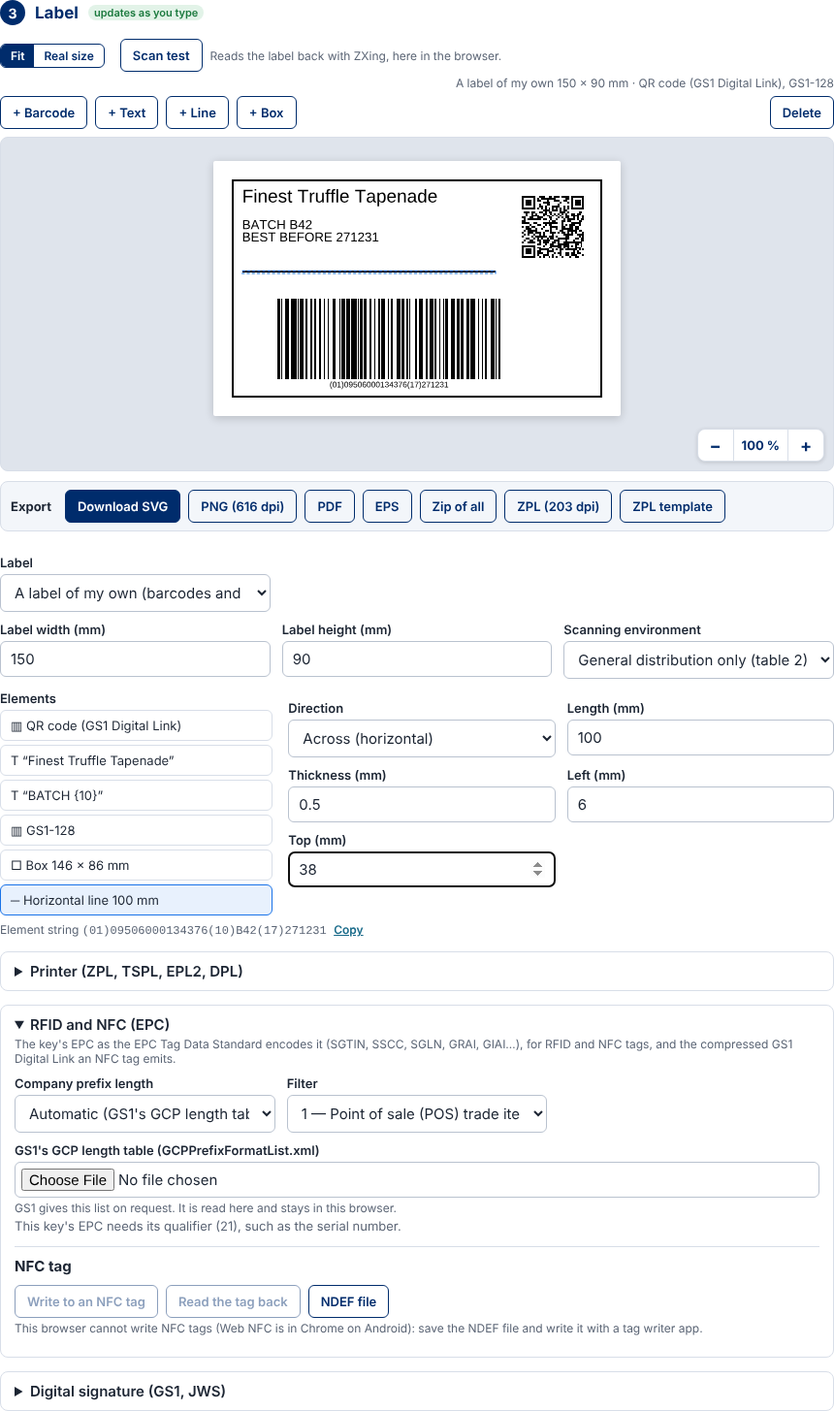
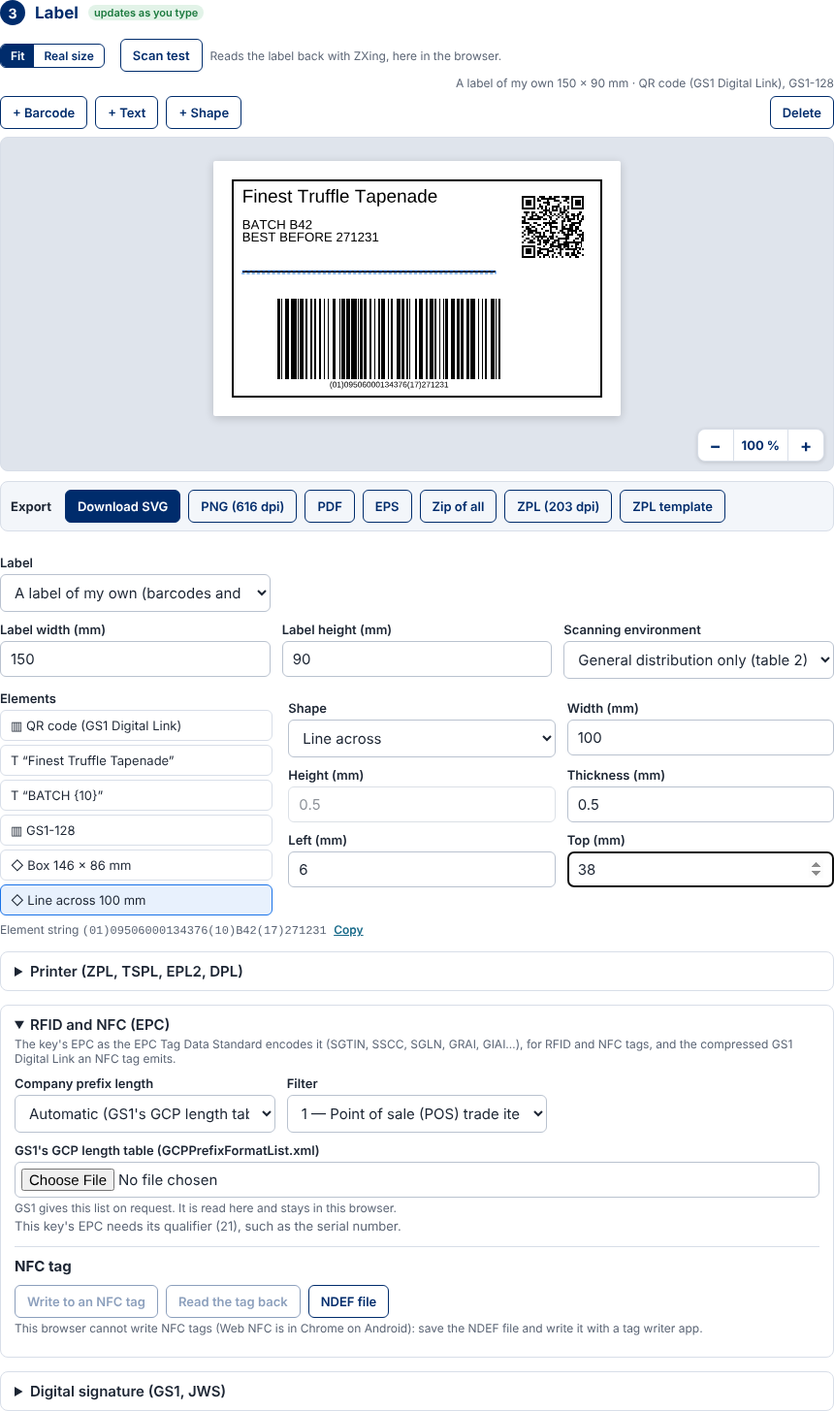
web, docs: one + Shape for lines and boxes, the owner's choice of mock-up B (4.2)
The owner chose mock-up B over A: one + Shape button beside + Barcode and + Text, the shape chosen in its properties
(line across, line down, box, filled box) with its width, height and thickness. A line's length is its width (across)
or height (down), the other side its thickness, shown but not typed; a filled box's thickness is not asked. Changing
the shape keeps the corner, the thickness and the length the two shapes share. The core's lines and boxes, and their
ZPL and EPL2, are unchanged.

Claude-Session: https://claude.ai/code/session_01AV1osqnMA5E6wBwdnRYPX7

diff --git a/apps/web/src/Designer.tsx b/apps/web/src/Designer.tsx
@@ -1,5 +1,5 @@
 import {
-  SIZES, SYMBOLOGIES, type DesignBox, type DesignElement, type DesignLine, type DesignPage, type DesignSymbol, type DesignText, type PlacedElement, type SymbologyId,
+  boxOf, SIZES, SYMBOLOGIES, type DesignBox, type DesignElement, type DesignLine, type DesignPage, type DesignSymbol, type DesignText, type PlacedElement, type SymbologyId,
 } from "@gs1-label-studio/core";
 import { useRef } from "react";
 import { formatNumber, t, tm } from "./i18n.ts";
@@ -8,7 +8,8 @@ import { ENVIRONMENT_NAMES } from "./texts.ts";
 // A label of one's own (backlog 4.2, mock-up A of two, 3 November 2026): in step 3, "Label" offers it; the page on the
 // canvas with its barcodes and text blocks, each selected by a click and moved by dragging it; "+ Barcode" and
 // "+ Text" over the canvas; under it the page's size, the elements and the selected one's properties. Then (step b,
-// mock-up A of two) "+ Line" and "+ Box" beside them: a rule across or down, a box outlined or filled.
+// mock-up B of two, the owner's choice of 3 November 2026) "+ Shape" beside them: a line across or down, a box
+// outlined or filled, the shape chosen in its properties.
 
 /** The symbols a barcode on the page can be: as step 3 offers them, not GS1 QR Code (ADR 0003). */
 const OFFERED = Object.values(SYMBOLOGIES).filter((symbology) => symbology.id !== "gs1-qrcode");
@@ -40,7 +41,7 @@ export function elementName(element: DesignElement): string {
   if (element.kind === "text") return `“${element.text.split("\n")[0] || t("Text")}”`;
   if (element.kind === "line") {
     const mm = formatNumber(element.lengthMm);
-    return element.vertical ? t("Vertical line {mm} mm", { mm }) : t("Horizontal line {mm} mm", { mm });
+    return element.vertical ? t("Line down {mm} mm", { mm }) : t("Line across {mm} mm", { mm });
   }
   const size = { w: formatNumber(element.widthMm), h: formatNumber(element.heightMm) };
   return element.filled ? t("Filled box {w} × {h} mm", size) : t("Box {w} × {h} mm", size);
@@ -50,8 +51,28 @@ export function elementName(element: DesignElement): string {
 function elementIcon(element: DesignElement): string {
   if (element.kind === "symbol") return "▥";
   if (element.kind === "text") return "T";
-  if (element.kind === "line") return element.vertical ? "│" : "─";
-  return element.filled ? "■" : "□";
+  return "◇";
+}
+
+/** A shape: a line across or down, a box outlined or filled (the core's line and box). */
+type Shape = "across" | "down" | "box" | "filled";
+const BOX_SIDE_MM = 20; // a box made from a line takes the line's length one way and this the other
+
+function shapeOf(element: DesignLine | DesignBox): Shape {
+  if (element.kind === "line") return element.vertical ? "down" : "across";
+  return element.filled ? "filled" : "box";
+}
+
+/** The shape changed to another, its corner and thickness kept, and the length it shares with the new one. */
+function reshaped(element: DesignLine | DesignBox, shape: Shape): DesignLine | DesignBox {
+  const { id, xMm, yMm, thicknessMm } = element;
+  if (shape === "across" || shape === "down") {
+    const lengthMm = element.kind === "line" ? element.lengthMm : shape === "across" ? element.widthMm : element.heightMm;
+    return { id, kind: "line", vertical: shape === "down", lengthMm, thicknessMm, xMm, yMm };
+  }
+  const [widthMm, heightMm] = element.kind === "box" ? [element.widthMm, element.heightMm]
+    : element.vertical ? [BOX_SIDE_MM, element.lengthMm] : [element.lengthMm, BOX_SIDE_MM];
+  return { id, kind: "box", widthMm, heightMm, thicknessMm, filled: shape === "filled", xMm, yMm };
 }
 
 interface ToolsProps {
@@ -61,7 +82,7 @@ interface ToolsProps {
   onChange: (page: DesignPage, selected: string | null) => void;
 }
 
-/** + Barcode, + Text, + Line, + Box and Delete, over the canvas. */
+/** + Barcode, + Text, + Shape and Delete, over the canvas. */
 export function DesignerTools({ page, selected, symbology, onChange }: ToolsProps) {
   const add = (element: DesignElement) => onChange({ ...page, elements: [...page.elements, element] }, element.id);
   return (
@@ -73,10 +94,7 @@ export function DesignerTools({ page, selected, symbology, onChange }: ToolsProp
         {t("+ Text")}
       </button>
       <button type="button" className="btn" onClick={() => add({ id: nextId(page), kind: "line", vertical: false, lengthMm: 40, thicknessMm: 0.5, xMm: 4, yMm: 4 })}>
-        {t("+ Line")}
-      </button>
-      <button type="button" className="btn" onClick={() => add({ id: nextId(page), kind: "box", widthMm: 40, heightMm: 20, thicknessMm: 0.5, filled: false, xMm: 4, yMm: 4 })}>
-        {t("+ Box")}
+        {t("+ Shape")}
       </button>
       <span className="grow" />
       <button type="button" className="btn" disabled={!selected} onClick={() => onChange({ ...page, elements: page.elements.filter((e) => e.id !== selected) }, null)}>
@@ -164,14 +182,52 @@ interface PanelProps {
   onChange: (page: DesignPage, selected: string | null) => void;
 }
 
+const millimetres = (value: string, fallback: number) => (Number.isFinite(Number(value)) && value !== "" ? Number(value) : fallback);
+// A size or thickness is kept while the field holds nothing above 0 (being typed): the core refuses none
+const positive = (value: string, fallback: number) => (millimetres(value, fallback) > 0 ? millimetres(value, fallback) : fallback);
+
+/**
+ * A shape's properties (mock-up B): its shape, then its width, height and thickness. A line's width (across) or height
+ * (down) is its length and the other its thickness, shown but not typed; a filled box has no outline to thicken.
+ */
+function ShapeFields({ element, onChange }: { element: DesignLine | DesignBox; onChange: (element: DesignLine | DesignBox) => void }) {
+  const shape = shapeOf(element);
+  const { widthMm, heightMm } = boxOf(element);
+  const setWidth = (value: number) => onChange(element.kind === "line" ? { ...element, lengthMm: value } : { ...element, widthMm: value });
+  const setHeight = (value: number) => onChange(element.kind === "line" ? { ...element, lengthMm: value } : { ...element, heightMm: value });
+  return (
+    <>
+      <div>
+        <label htmlFor="el-shape">{t("Shape")}</label>
+        <select id="el-shape" value={shape} onChange={(e) => onChange(reshaped(element, e.target.value as Shape))}>
+          <option value="across">{t("Line across")}</option>
+          <option value="down">{t("Line down")}</option>
+          <option value="box">{t("Box")}</option>
+          <option value="filled">{t("Filled box")}</option>
+        </select>
+      </div>
+      <div>
+        <label htmlFor="el-width">{t("Width (mm)")}</label>
+        <input id="el-width" type="number" min={STEP_MM} step={STEP_MM} disabled={shape === "down"} value={widthMm} onChange={(e) => setWidth(positive(e.target.value, widthMm))} />
+      </div>
+      <div>
+        <label htmlFor="el-height-mm">{t("Height (mm)")}</label>
+        <input id="el-height-mm" type="number" min={STEP_MM} step={STEP_MM} disabled={shape === "across"} value={heightMm} onChange={(e) => setHeight(positive(e.target.value, heightMm))} />
+      </div>
+      <div>
+        <label htmlFor="el-thickness">{t("Thickness (mm)")}</label>
+        <input id="el-thickness" type="number" min={0.1} step={0.1} disabled={shape === "filled"} value={element.thicknessMm} onChange={(e) => onChange({ ...element, thicknessMm: positive(e.target.value, element.thicknessMm) })} />
+      </div>
+    </>
+  );
+}
+
 /** The page's size, its elements and the selected one's properties, under the canvas. */
 export function DesignerPanel({ page, selected, elements, environments, environment, guided, problems, onEnvironment, onChange }: PanelProps) {
   const element = page.elements.find((e) => e.id === selected) ?? null;
-  const update = (patch: Partial<DesignSymbol> | Partial<DesignText> | Partial<DesignLine> | Partial<DesignBox>) =>
+  const update = (patch: Partial<DesignSymbol> | Partial<DesignText>) =>
     onChange({ ...page, elements: page.elements.map((e) => (e.id === selected ? ({ ...e, ...patch } as DesignElement) : e)) }, selected);
-  const mm = (value: string, fallback: number) => (Number.isFinite(Number(value)) && value !== "" ? Number(value) : fallback);
-  // A size or thickness is kept while the field holds nothing above 0 (being typed): the core refuses none
-  const positive = (value: string, fallback: number) => (mm(value, fallback) > 0 ? mm(value, fallback) : fallback);
+  const mm = (value: string, fallback: number) => millimetres(value, fallback);
   return (
     <div className="designer">
       <div className="grid">
@@ -270,44 +326,8 @@ export function DesignerPanel({ page, selected, elements, environments, environm
                     )}
                   </fieldset>
                 </>
-              ) : element.kind === "line" ? (
-                <>
-                  <div>
-                    <label htmlFor="el-direction">{t("Direction")}</label>
-                    <select id="el-direction" value={element.vertical ? "vertical" : "horizontal"} onChange={(e) => update({ vertical: e.target.value === "vertical" })}>
-                      <option value="horizontal">{t("Across (horizontal)")}</option>
-                      <option value="vertical">{t("Down (vertical)")}</option>
-                    </select>
-                  </div>
-                  <div>
-                    <label htmlFor="el-length">{t("Length (mm)")}</label>
-                    <input id="el-length" type="number" min={STEP_MM} step={STEP_MM} value={element.lengthMm} onChange={(e) => update({ lengthMm: positive(e.target.value, element.lengthMm) })} />
-                  </div>
-                  <div>
-                    <label htmlFor="el-thickness">{t("Thickness (mm)")}</label>
-                    <input id="el-thickness" type="number" min={0.1} step={0.1} value={element.thicknessMm} onChange={(e) => update({ thicknessMm: positive(e.target.value, element.thicknessMm) })} />
-                  </div>
-                </>
-              ) : element.kind === "box" ? (
-                <>
-                  <div>
-                    <label htmlFor="el-width">{t("Width (mm)")}</label>
-                    <input id="el-width" type="number" min={STEP_MM} step={STEP_MM} value={element.widthMm} onChange={(e) => update({ widthMm: positive(e.target.value, element.widthMm) })} />
-                  </div>
-                  <div>
-                    <label htmlFor="el-height-mm">{t("Height (mm)")}</label>
-                    <input id="el-height-mm" type="number" min={STEP_MM} step={STEP_MM} value={element.heightMm} onChange={(e) => update({ heightMm: positive(e.target.value, element.heightMm) })} />
-                  </div>
-                  <div>
-                    <label htmlFor="el-thickness">{t("Line thickness (mm)")}</label>
-                    <input id="el-thickness" type="number" min={0.1} step={0.1} disabled={element.filled} value={element.thicknessMm} onChange={(e) => update({ thicknessMm: positive(e.target.value, element.thicknessMm) })} />
-                  </div>
-                  <div className="check">
-                    <label>
-                      <input type="checkbox" checked={element.filled} onChange={(e) => update({ filled: e.target.checked })} /> {t("Filled")}
-                    </label>
-                  </div>
-                </>
+              ) : element.kind === "line" || element.kind === "box" ? (
+                <ShapeFields element={element} onChange={(shape) => onChange({ ...page, elements: page.elements.map((e) => (e.id === selected ? shape : e)) }, selected)} />
               ) : (
                 <>
                   <div className="wide">

diff --git a/apps/web/e2e/editor.spec.ts b/apps/web/e2e/editor.spec.ts
@@ -1204,40 +1204,49 @@ test("a label of one's own: barcodes and text placed and moved, read back, expor
   await expect(page.locator(".error.small")).toHaveCount(0);
 });
 
-// Item 4.2, step b (mock-up A of two, 3 November 2026): lines and boxes on a label of one's own, beside the barcodes and
-// text; a frame clear of the barcodes is not an overlap, a line across one is; in ZPL each with ^GB where the page puts it.
-test("a label of one's own: lines and boxes added, sized, named, and written in ZPL", async ({ page }) => {
+// Item 4.2, step b (mock-up B of two, the owner's choice of 3 November 2026): lines and boxes on a label of one's own,
+// one "+ Shape" beside the barcodes and text, the shape chosen in its properties; a frame clear of the barcodes is not
+// an overlap, a line across one is; in ZPL each with ^GB where the page puts it.
+test("a label of one's own: shapes added, changed, sized, named, and written in ZPL", async ({ page }) => {
   await page.fill("#paste", "(01)09506000134376(10)B42(17)271231");
   await page.getByRole("button", { name: "Fill in" }).click();
   await on(page, "scan");
   await page.getByRole("button", { name: "Choose a symbol yourself" }).click();
   await on(page, "label");
   await page.selectOption("#opt-logistic", "designer");
-  // The QR code at the top left, the text below it moved clear of the frame
+  // The QR code at the top left
   await page.locator(".design-list button", { hasText: "QR code" }).press("Enter"); // under a phone's tab bar
   await page.fill("#el-x", "5");
   await page.fill("#el-y", "5");
-  await page.getByRole("button", { name: "+ Box" }).click();
-  await expect(page.locator(".design-list button[aria-pressed=true]")).toHaveText("□ Box 40 × 20 mm");
+  // A shape starts as a line across: its width is its length, its height its thickness (not typed)
+  await page.getByRole("button", { name: "+ Shape" }).click();
+  await expect(page.locator(".design-list button[aria-pressed=true]")).toHaveText("◇ Line across 40 mm");
+  await expect(page.locator("#el-shape")).toHaveValue("across");
+  await expect(page.locator("#el-height-mm")).toBeDisabled();
+  await expect(page.locator("#el-height-mm")).toHaveValue("0.5");
+  // Made a box: the line's length its width; then a frame around the label
+  await page.selectOption("#el-shape", "box");
+  await expect(page.locator(".design-list button[aria-pressed=true]")).toHaveText("◇ Box 40 × 20 mm");
   await page.fill("#el-width", "96");
   await page.fill("#el-height-mm", "56");
   await page.fill("#el-thickness", "0.8");
   await page.fill("#el-x", "2");
   await page.fill("#el-y", "2");
-  await expect(page.locator(".design-list button[aria-pressed=true]")).toHaveText("□ Box 96 × 56 mm");
+  await expect(page.locator(".design-list button[aria-pressed=true]")).toHaveText("◇ Box 96 × 56 mm");
   await expect(page.locator(".design-problems")).toHaveCount(0);
   // A filled box: its outline's thickness no longer asked
-  await page.getByRole("checkbox", { name: "Filled" }).check();
+  await page.selectOption("#el-shape", "filled");
   await expect(page.locator("#el-thickness")).toBeDisabled();
-  await page.getByRole("checkbox", { name: "Filled" }).uncheck();
+  await page.selectOption("#el-shape", "box");
   // A line down across the QR code overlaps it; moved to the right it does not
-  await page.getByRole("button", { name: "+ Line" }).click();
-  await page.selectOption("#el-direction", "vertical");
-  await page.fill("#el-length", "30");
+  await page.getByRole("button", { name: "+ Shape" }).click();
+  await page.selectOption("#el-shape", "down");
+  await expect(page.locator("#el-width")).toBeDisabled();
+  await page.fill("#el-height-mm", "30");
   await page.fill("#el-x", "10");
   await page.fill("#el-y", "6");
-  await expect(page.locator(".design-list button[aria-pressed=true]")).toHaveText("│ Vertical line 30 mm");
-  await expect(page.locator(".design-problems")).toContainText("Vertical line 30 mm");
+  await expect(page.locator(".design-list button[aria-pressed=true]")).toHaveText("◇ Line down 30 mm");
+  await expect(page.locator(".design-problems")).toContainText("Line down 30 mm");
   await page.fill("#el-x", "60");
   await expect(page.locator(".design-problems")).toHaveCount(0);
   // Drawn on the page: the frame's four sides and the line among its rectangles
@@ -1250,8 +1259,8 @@ test("a label of one's own: lines and boxes added, sized, named, and written in 
   expect(file).toContain(`^FO${dots(60)},${dots(6)}^GB${dots(60.5) - dots(60)},${dots(36) - dots(6)},${dots(60.5) - dots(60)}^FS`);
   // Past the label's edge, a line is named on the page and refused in the print file
   await on(page, "label");
-  await page.fill("#el-length", "60");
-  await expect(page.locator(".design-problems")).toContainText("Vertical line 60 mm goes past the label's edge.");
+  await page.fill("#el-height-mm", "60");
+  await expect(page.locator(".design-problems")).toContainText("Line down 60 mm goes past the label's edge.");
   await on(page, "export");
   await page.getByRole("button", { name: "ZPL (203 dpi)" }).click();
   await expect(page.locator(".error.small")).toContainText("A line or box runs past the label's edge");

diff --git a/apps/web/screenshots/guide.spec.ts b/apps/web/screenshots/guide.spec.ts
@@ -118,14 +118,15 @@ test("step 3: a label of one's own", async ({ page }) => {
   await page.fill("#el-x", "14");
   await page.fill("#el-y", "48");
   // A frame around the label and a rule under the text (step b)
-  await page.getByRole("button", { name: "+ Box" }).click();
+  await page.getByRole("button", { name: "+ Shape" }).click();
+  await page.selectOption("#el-shape", "box");
   await page.fill("#el-width", "146");
   await page.fill("#el-height-mm", "86");
   await page.fill("#el-thickness", "0.8");
   await page.fill("#el-x", "2");
   await page.fill("#el-y", "2");
-  await page.getByRole("button", { name: "+ Line" }).click();
-  await page.fill("#el-length", "100");
+  await page.getByRole("button", { name: "+ Shape" }).click();
+  await page.fill("#el-width", "100");
   await page.fill("#el-x", "6");
   await page.fill("#el-y", "38");
   await expect(page.locator(".design-problems")).toHaveCount(0);

diff --git a/docs/features.md b/docs/features.md
@@ -148,7 +148,7 @@ Which standard each follows: [conformance](conformance.md).
 | The QR code where ZPL puts it | `^BQ` prints the symbol as far below `^FO` as the bar height `^BY` last set (10 dots by default, 375 after a GS1-128 at 300 dpi): a one-dot `^BY` before it and `^FO` a dot higher | `4330bb7` | `labelary`: a QR code at level |
 | The human readable text chosen, in every printer language | Every element string, the key's alone (under the first of several GS1-128 symbols) or none, as the PDF has it; with none the printer's interpretation line is off too | `8c99465` | `batch`: prints the human readable text chosen |
 | A label of one's own in ZPL | Each barcode with the commands of the symbol alone at the whole dots nearest to its X-dimension (within its table's row), its first bar where the page's layout puts it (GS1 DataBar's left guard space included); each line of text with `^A0` at its capitals' height; a barcode past the edge at those dots refused; the Export bar's file, the test print and the bulk ZPL file | `0da422b` | `design`: writes the page in ZPL · `labelary`: a label of one's own at · `editor`: a label of one's own |
-| Lines and boxes on a label of one's own | **+ Line** (across or down, its length and thickness) and **+ Box** (its outer size, its outline's thickness inside it, or filled) beside **+ Barcode** and **+ Text**; drawn in SVG, PNG, PDF and EPS; a box's outline overlaps a barcode only where it is drawn, so a frame clear of the quiet zones is not named; in ZPL with `^GB`, in EPL2 with `LO` and `X`, each edge at the nearest dot; past the label's edge named, and refused in a print file | `5c8f407` | `design`: draws lines and boxes · `labelary`: its lines and boxes drawn by ^GB · `printlangs`: its lines and boxes drawn by LO and X · `editor`: lines and boxes added |
+| Lines and boxes on a label of one's own | **+ Shape** beside **+ Barcode** and **+ Text** (mock-up B, the owner's choice): a line across or down, a box or a filled box, chosen in its properties with its width, height and thickness, a box's outline inside its size; drawn in SVG, PNG, PDF and EPS; a box's outline overlaps a barcode only where it is drawn, so a frame clear of the quiet zones is not named; in ZPL with `^GB`, in EPL2 with `LO` and `X`, each edge at the nearest dot; past the label's edge named, and refused in a print file | `5c8f407` | `design`: draws lines and boxes · `labelary`: its lines and boxes drawn by ^GB · `printlangs`: its lines and boxes drawn by LO and X · `editor`: shapes added, changed |
 | A label of one's own in EPL2 | As in ZPL: each barcode with the commands of the symbol alone where the page puts it, each line of text with `A` in the font nearest its height that fits its width; what EPL2 refuses for a symbol alone refused here too | `1fa0231` | `printlangs`: EPL2: a label of one's own at · `design`: writes the page in ZPL |
 | Images in stripes | An image larger than a graphic field (99,999 bytes) sent as stripes | `fb903f6` | `roundtrip`: splits an image larger than a graphic field into stripes · `labelary`: prints an image (a logo) larger than one graphic field |
 | Printer profiles | Generic profiles at 152 to 600 dpi, 104 mm, and one's own kept in the browser; a label wider than the printer refused | `a5e261d` | `printer`: checks a profile and the label's width · `editor`: printer profiles |

diff --git a/docs/user-guide.md b/docs/user-guide.md
@@ -249,7 +249,7 @@ of my own (barcodes and text placed freely)*:
 
 1. Set **Label width (mm)** and **Label height (mm)**, and the **Scanning environment** that sizes the barcodes (in
    step 2's guided choice, its table does).
-2. **+ Barcode** adds a barcode; **+ Text** a text block; **+ Line** a line; **+ Box** a box. Each is listed under
+2. **+ Barcode** adds a barcode; **+ Text** a text block; **+ Shape** a line or a box. Each is listed under
    **Elements**.
 3. Choose an element in the list or click it on the label; drag it on the label to move it (by half millimetres), or
    type **Left (mm)** and **Top (mm)**.
@@ -258,9 +258,11 @@ of my own (barcodes and text placed freely)*:
 5. A text block: its **Text** (a line a line), **Text height** (its capitals'), and **Insert a field from the data**,
    which adds `{10}`, `{17}`… — each replaced by that element string's value, so in bulk every row's label shows its
    own data.
-6. A line: its **Direction** (*across* or *down*), **Length (mm)** and **Thickness (mm)**, from its top left corner.
-7. A box: its **Width (mm)** and **Height (mm)** (its outer size), its **Line thickness (mm)** (drawn inside that size),
-   or **Filled**. A frame around the whole label, or around a barcode clear of its quiet zones, is not an overlap.
+6. A shape: its **Shape** (*Line across*, *Line down*, *Box* or *Filled box*), **Width (mm)**, **Height (mm)** and
+   **Thickness (mm)**, from its top left corner. A line across is as wide as it is long, a line down as high; its other
+   side is its thickness, shown but not typed. A box's outline is drawn inside its width and height; a filled box has
+   no outline to thicken. Changing the shape keeps its corner, its thickness and the length it shares with the new one.
+7. A frame around the whole label, or around a barcode clear of its quiet zones, is not an overlap.
 8. **Delete** takes the chosen element off the label.
 
 A barcode, line or box past the label's edge, or a barcode overlapping another element (its quiet zones must stay

diff --git a/README.md b/README.md
@@ -469,8 +469,9 @@ complete.
   page's size, the elements and the chosen one's properties; text with {AI} fields filled from the data, so the files in
   bulk fill every row's label; one Layout, so SVG, PNG, PDF and EPS; every barcode read back). In ZPL and EPL2 since 3
   November (each barcode as the symbol alone, where the page puts it; checked through Labelary and Labelize). Lines and
-  boxes since 3 November (mock-up A of two: + Line and + Box beside + Barcode and + Text; a box outlined or filled; in
-  ZPL `^GB`, in EPL2 `LO` and `X`, to the dot through Labelary and Labelize). Not yet: TSPL and DPL, a date format for
+  boxes since 3 November (mock-up B of two, the owner's choice: + Shape beside + Barcode and + Text, a line across or
+  down, a box or a filled box chosen in its properties; in ZPL `^GB`, in EPL2 `LO` and `X`, to the dot through Labelary
+  and Labelize). Not yet: TSPL and DPL, a date format for
   fields, images, rotation, saving the label (4.3)*
 - 4.3 Templates saved and shared as files; later perhaps templates tied to a project, to speed it up (the owner, 3
   November 2026: not needed now)

diff --git a/CHANGELOG.md b/CHANGELOG.md
@@ -166,7 +166,8 @@
   fields filled from the data, so in bulk each row's label shows its own data; one layout, so SVG, PNG, PDF, EPS and the
   files in bulk draw it, every barcode read back. In ZPL and EPL2 since 3 November: each barcode with the commands of the
   symbol alone, its bars where the page puts them (to the dot through Labelary and Labelize), the text with `^A0` or `A`.
-  Lines and boxes since 3 November (*+ Line*, *+ Box*, outlined or filled): in ZPL with `^GB`, in EPL2 with `LO` and `X`.
+  Lines and boxes since 3 November (*+ Shape*: a line across or down, a box or a filled box): in ZPL with `^GB`, in
+  EPL2 with `LO` and `X`.
 - The print files now carry the human readable text chosen for the label — every element string, the key's alone, or
   none — in ZPL, TSPL, EPL2 and DPL; until 3 November they printed every element string whatever was chosen.
 - Decisions: ADR 0001 (browser-first architecture), ADR 0002 (printer output), ADR 0003 (scope and user experience).

diff --git a/docs/test-inventory.md b/docs/test-inventory.md
@@ -1049,7 +1049,7 @@ Every unit test ran and passed in the run that wrote this file, the ZPL printed 
 - the interface in Brazilian Portuguese and Spanish, kept for the next visit, messages included
 - a browser in Portuguese opens the studio in Portuguese
 - a label of one's own: barcodes and text placed and moved, read back, exported
-- a label of one's own: lines and boxes added, sized, named, and written in ZPL
+- a label of one's own: shapes added, changed, sized, named, and written in ZPL
 
 </details>
 
